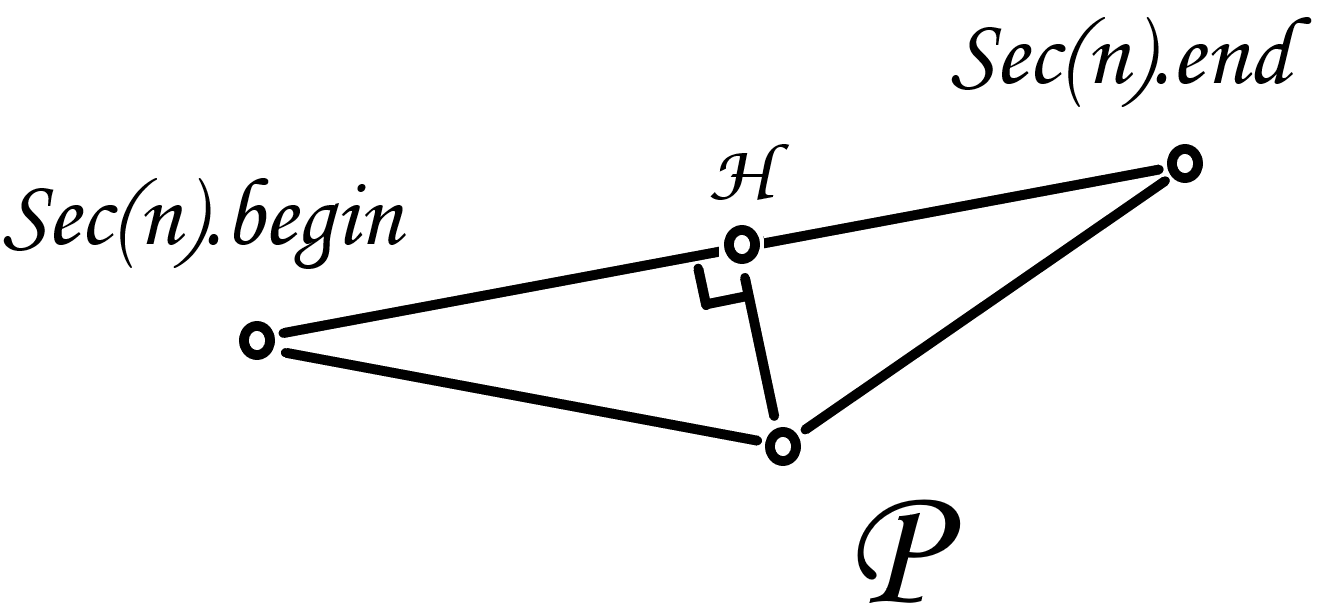
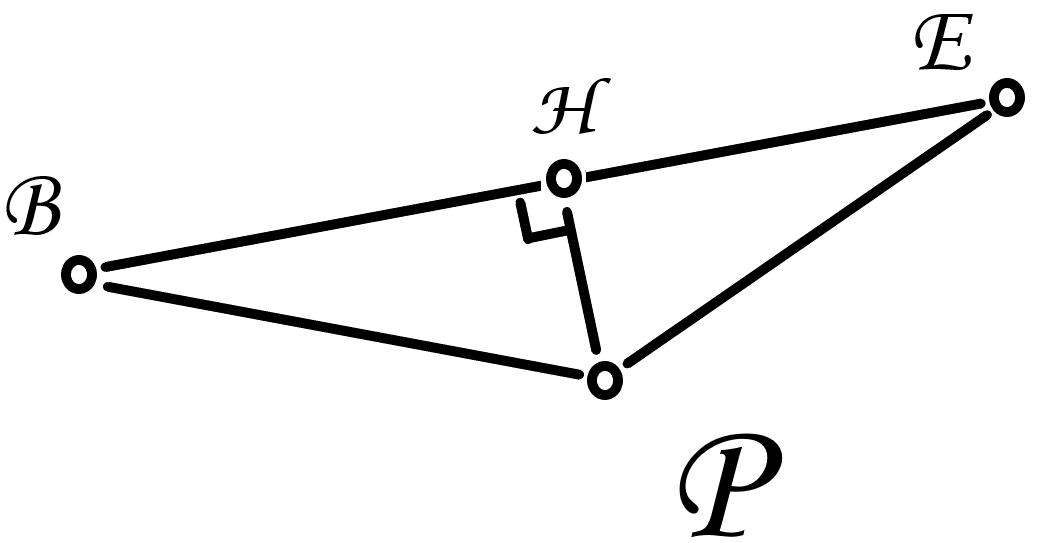
文档更新

Changed region(s): [[0.0, 0.0, 1.0, 0.7661], [0.648, 0.7956, 0.7715, 1.0], [0.8023, 0.3536, 0.8332, 0.4125]]

diff --git a/docs/Race-Plus-Plus-Dev.md b/docs/Race-Plus-Plus-Dev.md
@@ -156,5 +156,41 @@ $n$,$n+1$,$n-1$,$n+2$,$n-2$......
 
 :::
 
-如上图，我们可以看到，在某一赛段$Sec(n)$中，我们要计算一个玩家$P$在赛段中的位置，很明显即计算线段$Sec(n).beginH$的长度。
+:::tip
+上图中$B$点代表$Sec(n).begin$,$E$点代表$Sec(n).end$，且我们规定一个点$A$到另一个点$B$的长度为A.disTo(B)
+:::
 
+如上图，我们可以看到，在某一赛段$Sec(n)$中，我们要计算一个玩家$P$在赛段中的位置，很明显即计算线段$BH$的长度。由于我们已知$BE$，$BP$，$EP$，因此这个长度可以通过简单的数学计算得到。
+
+:::tip
+BE即$Sec(n).begin.disTo(Sec(n).end)$
+
+BP即$Sec(n).begin.disTo(P)$
+
+EP即$Sec(n).end.disTo(P)$
+:::
+
+:::details 数学推导
+在$Rt\triangle PHB$与$Rt\triangle PHE$中,由勾股定理得：
+$$\begin{cases}
+BH^{2}=BP^{2}-PH^{2}\\
+EH^{2}=EP^{2}-PH^{2}
+\end{cases}$$
+进一步得：
+$$\begin{cases}
+PH^{2}=BP^{2}-BH^{2}\\
+PH^{2}=EP^{2}-EH^{2}
+\end{cases}$$
+联立得：
+$$BP^{2}-BH^{2}=EP^{2}-EH^{2}$$
+由图像得$EH=BE-BH$,代入上式得：
+$$ BP^{2}-BH^{2}=EP^{2}-(BE-BH)^{2}$$
+$$BP^{2}-BH^{2}=EP^{2}-BE^{2}+2BE\cdot BH-BH^{2}$$
+$$BP^{2}-EP^{2}+BE^{2}=2BE\cdot BH$$
+$$BH=\frac{BP^{2}-EP^{2}+BE^{2}}{2BE}$$
+$$BH=\frac{BP^{2}-EP^{2}}{2BE}+\frac{BE}{2}$$
+$$BH=\frac{(BP+EP)(BP-EP)}{2BE}+\frac{BE}{2}$$
+:::
+
+设玩家$P$在$Sec(n)$中的位置为$P.posAt(Sec(n))$，那么最终我们可以得到这个式子：（因原式太长，故没有替换$BE$,$BP$与$EP$）
+$$P.posAt(Sec(n))=\frac{(BP+EP)(BP-EP)}{2BE}+\frac{BE}{2}$$
